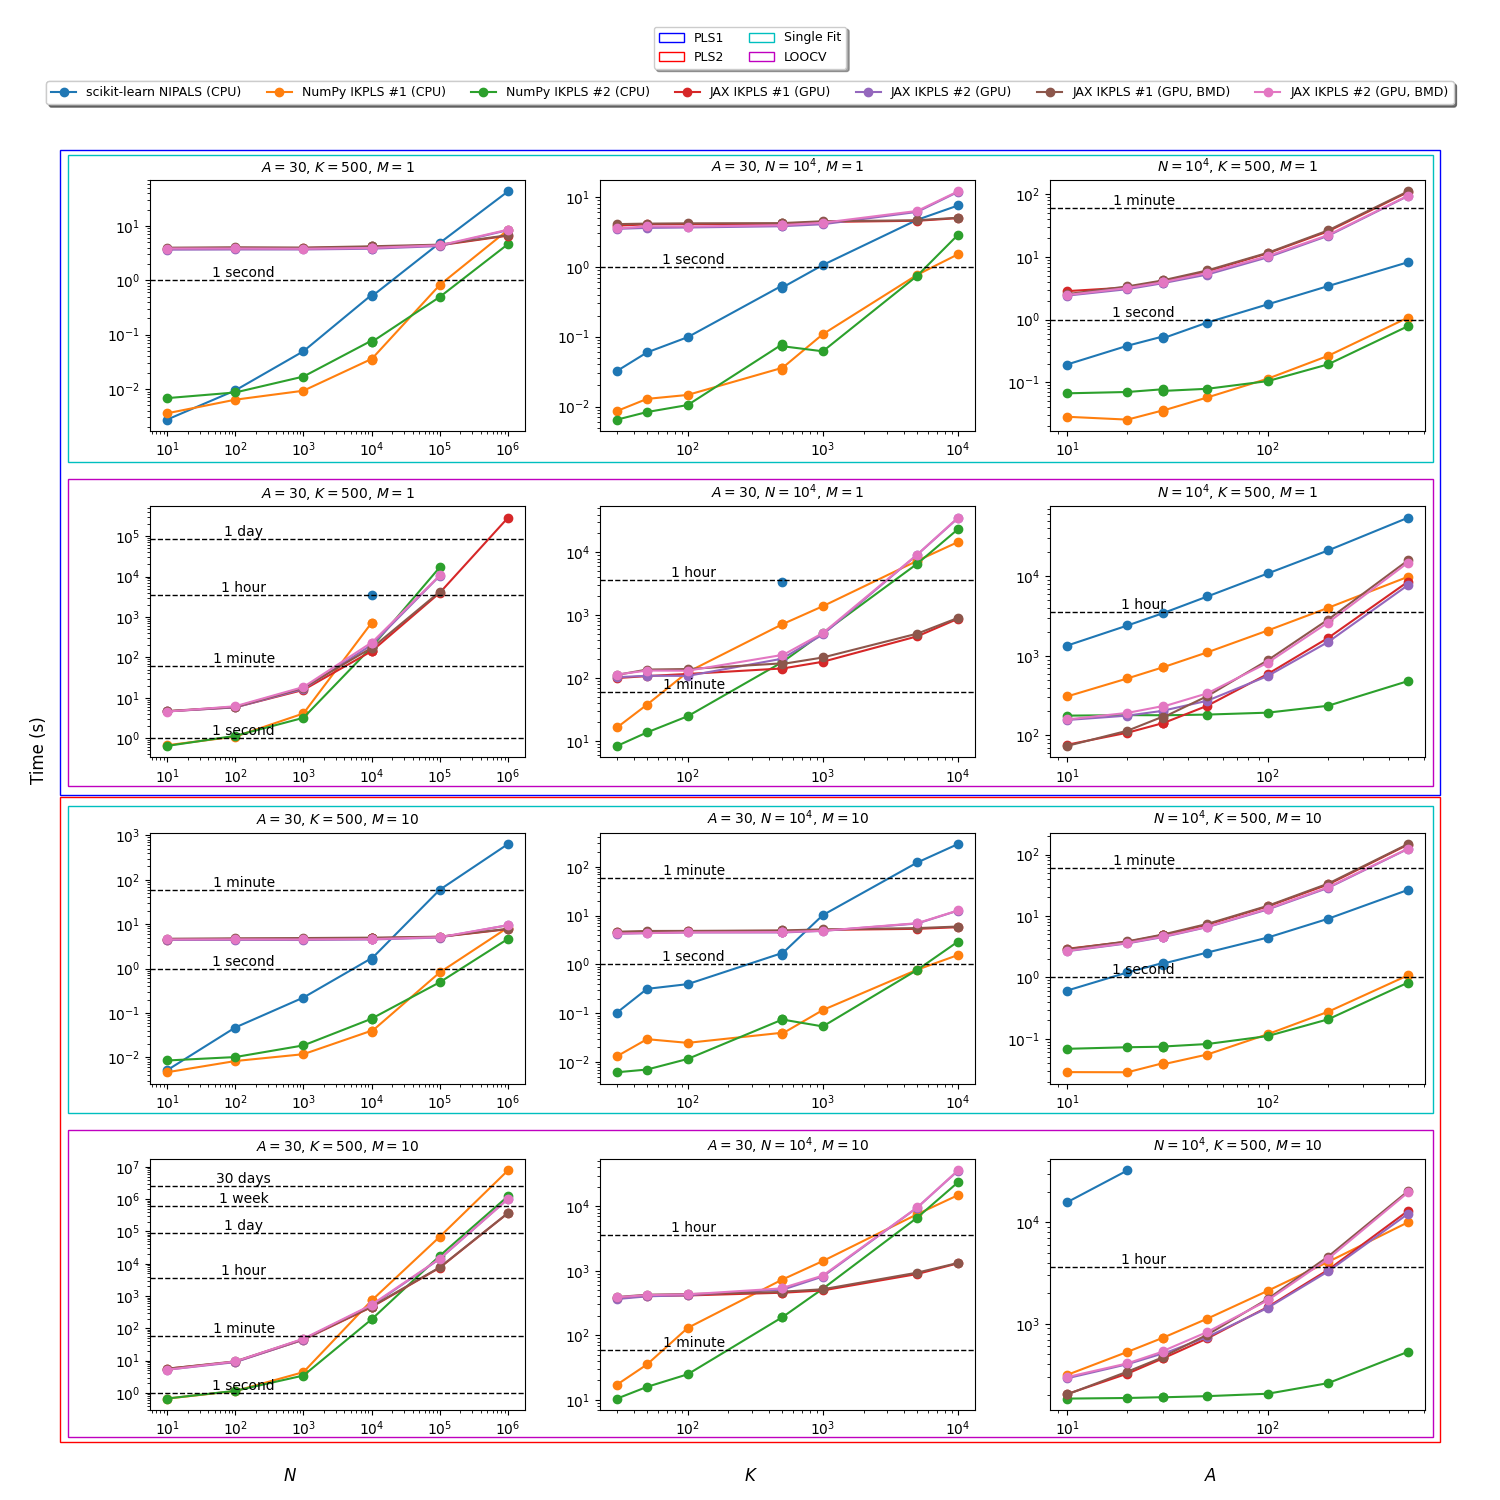
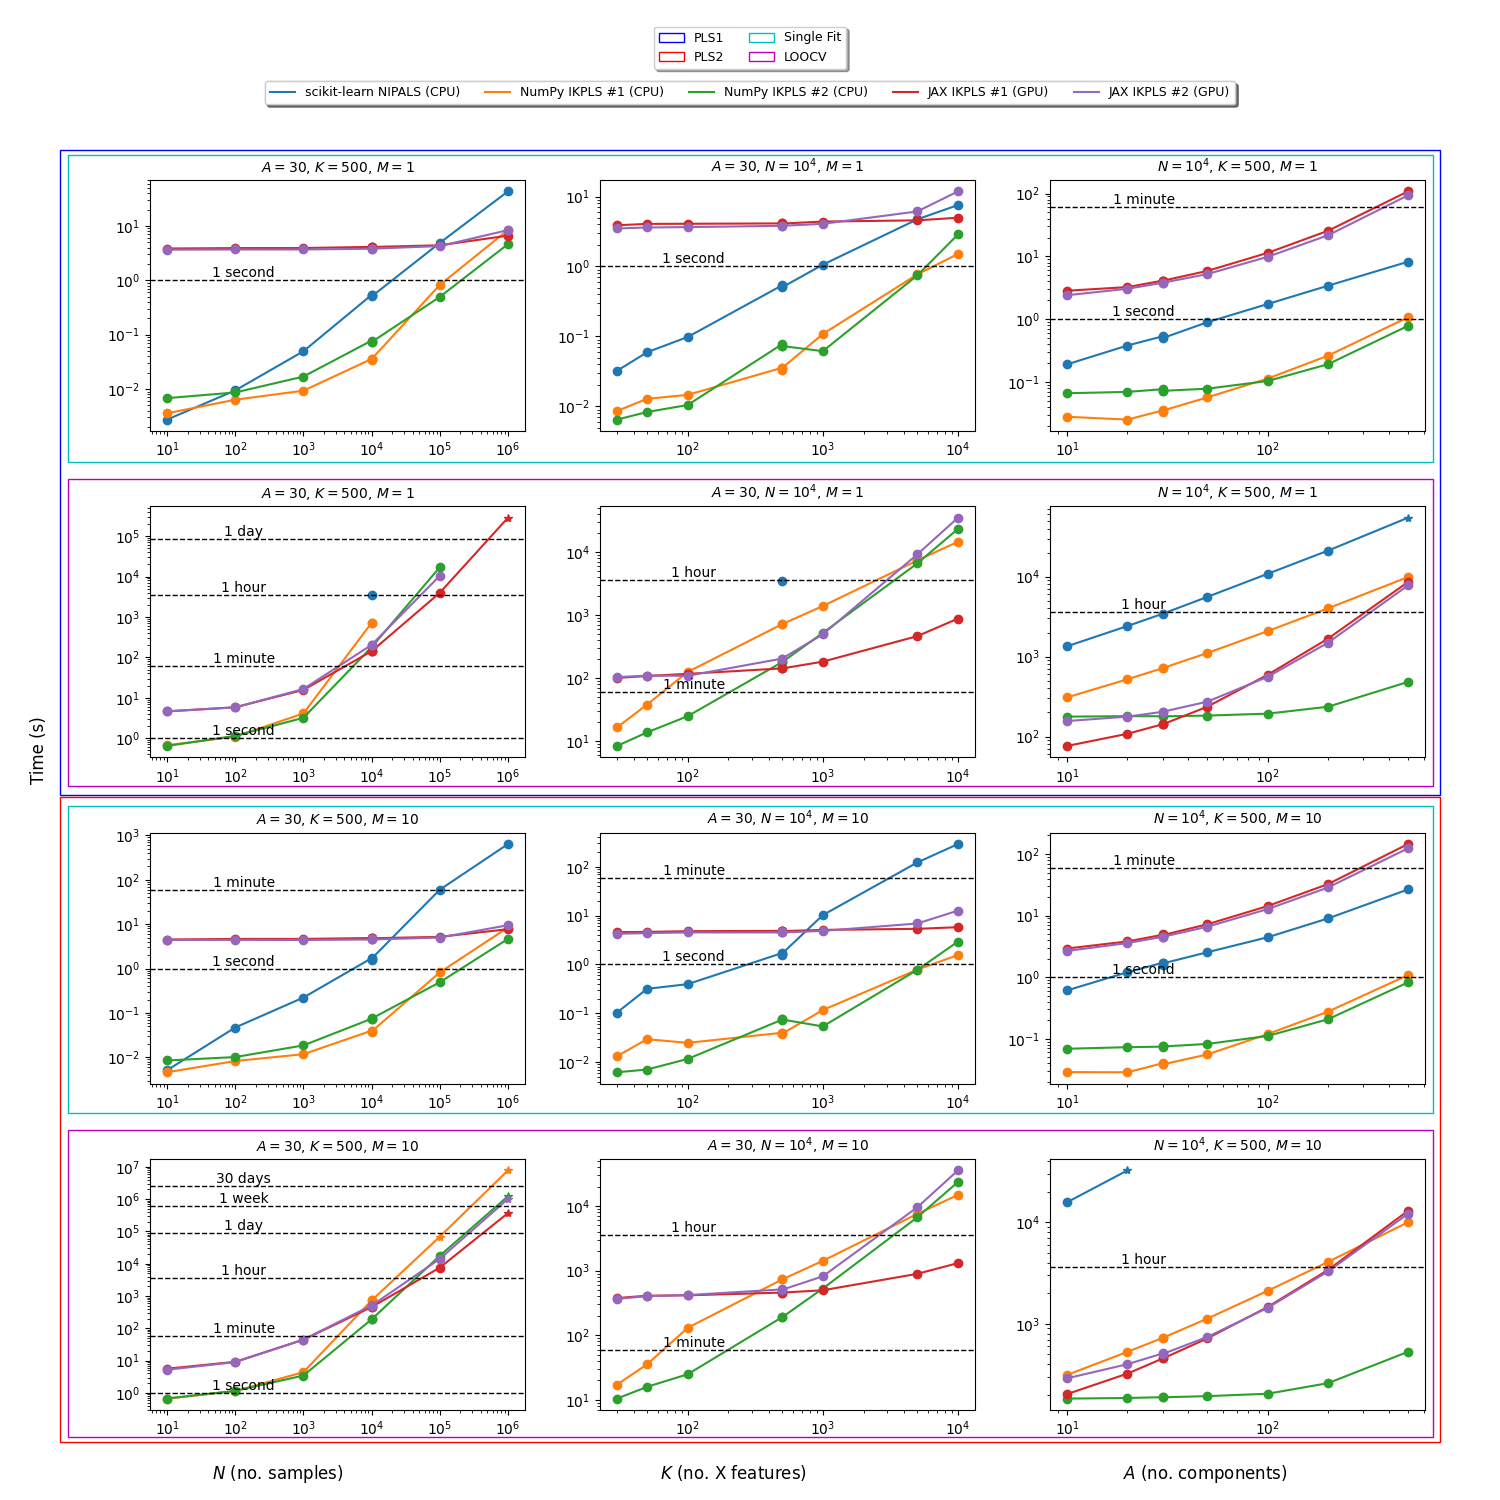
Added fail-safe check for numpy implementations if choosing an algorithm that is not 1 or 2. Also updated paper and plots.

diff --git a/plot_timings.py b/plot_timings.py
@@ -11,7 +11,7 @@ def remove_rows_where_all_values_except_time_are_same(df):
 
 
 def get_name_x_t_dict(df, x_name, constants_dict, single_fit_or_loocv):
-    model_names = ["sk", "np1", "np2", "jax1", "jax2", "diffjax1", "diffjax2"]
+    model_names = ["sk", "np1", "np2", "jax1", "jax2"]
     for name, value in constants_dict.items():
         df = df[df[name] == value]
     name_x_t_dict = {}
@@ -27,6 +27,7 @@ def get_name_x_t_dict(df, x_name, constants_dict, single_fit_or_loocv):
             )
         x = sub_df[x_name].values
         t = sub_df["time"].values
+        inferred = sub_df["inferred"].values
         if model_name == "sk":
             model_name = "scikit-learn NIPALS (CPU)"
         elif model_name == "np1":
@@ -37,18 +38,13 @@ def get_name_x_t_dict(df, x_name, constants_dict, single_fit_or_loocv):
             model_name = "JAX IKPLS #1 (GPU)"
         elif model_name == "jax2":
             model_name = "JAX IKPLS #2 (GPU)"
-        elif model_name == "diffjax1":
-            model_name = "JAX IKPLS #1 (GPU, BMD)"
-        elif model_name == "diffjax2":
-            model_name = "JAX IKPLS #2 (GPU, BMD)"
-        name_x_t_dict[model_name] = {"x": x, "t": t}
+        name_x_t_dict[model_name] = {"x": x, "t": t, "inferred": inferred}
     return name_x_t_dict
 
 
 def plot_timings(
-    ax, name_x_t_dict, xlabel, constants_dict, log_scale_x, log_scale_t, single_fit_or_loocv
+    ax, name_x_t_dict, xlabel, constants_dict,
 ):
-    # fig, ax = plt.subplots()
     fixed_points = [1, 60, 3600, 86400, 604800, 2592000, 31536000]
     fixed_points_labels = ["1 second", "1 minute", "1 hour", "1 day", "1 week", "30 days", "365 days"]
     min_t = np.inf
@@ -56,19 +52,17 @@ def plot_timings(
     for name, x_t_dict in name_x_t_dict.items():
         x = x_t_dict["x"]
         t = x_t_dict["t"]
+        inferred = x_t_dict["inferred"]
         sorted_indices = np.argsort(x)
         x = x[sorted_indices]
         t = t[sorted_indices]
-        if log_scale_t:
-            if log_scale_x:
-                ax.loglog(x, t, "o-", label=name)
+        curve = ax.loglog(x, t, "-", label=name)
+        color = curve[0].get_color()
+        for point_x, point_t, point_inferred in zip(x, t, inferred):
+            if np.isnan(point_inferred):
+                ax.loglog(point_x, point_t, "o", color=color)
             else:
-                ax.semilogy(x, t, "o-", label=name)
-        else:
-            if log_scale_x:
-                ax.semilogx(x, t, "o-", label=name)
-            else:
-                ax.plot(x, t, "o-", label=name)
+                ax.loglog(point_x, point_t, "*", color=color)
         if name not in legend_dict:
             legend_dict[name] = True
         try:
@@ -82,9 +76,7 @@ def plot_timings(
     for fp, fpl in zip(fixed_points, fixed_points_labels):
         if min_t <= fp <= max_t:
             ax.axhline(fp, color="k", linestyle="--", linewidth=1)
-            ax.text(0.25, fp, fpl, fontsize=10, ha="center", va="bottom", transform=trans) #bbox=dict(boxstyle="round", facecolor="white", alpha=0.5))
-    # ax.set_xlabel(xlabel)
-    # ax.set_ylabel("Time (s)")
+            ax.text(0.25, fp, fpl, fontsize=10, ha="center", va="bottom", transform=trans)
     if xlabel == "n_components":
         xlabel = "a"
     xlabel = xlabel.upper()
@@ -102,9 +94,6 @@ def plot_timings(
         title_str += f"${name}={value}$, "
     title_str = title_str[:-2]
     ax.set_title(title_str, fontsize=10)
-    # ax.legend()
-    # pls1_or_pls2 = "pls1" if constants_dict["m"] == 1 else "pls2"
-    # plt.savefig(f"timings/{single_fit_or_loocv}_{pls1_or_pls2}_{xlabel}.png")
 
 
 if __name__ == "__main__":
@@ -126,10 +115,7 @@ if __name__ == "__main__":
         name_x_t_dict_n_single_fit_pls1,
         "N",
         constants_dict_n_single_fit_pls1,
-        True,
-        True,
-        "single_fit",
-    )
+)
 
     constants_dict_k_single_fit_pls1 = {"n_components": 30, "n": 10000, "m": 1}
     name_x_t_dict_k_single_fit_pls1 = get_name_x_t_dict(
@@ -140,10 +126,7 @@ if __name__ == "__main__":
         name_x_t_dict_k_single_fit_pls1,
         "K",
         constants_dict_k_single_fit_pls1,
-        True,
-        True,
-        "single_fit",
-    )
+)
 
     constants_dict_nc_single_fit_pls1 = {"n": 10000, "k": 500, "m": 1}
     name_x_t_dict_nc_single_fit_pls1 = get_name_x_t_dict(
@@ -154,10 +137,7 @@ if __name__ == "__main__":
         name_x_t_dict_nc_single_fit_pls1,
         "A",
         constants_dict_nc_single_fit_pls1,
-        True,
-        True,
-        "single_fit",
-    )
+)
 
     constants_dict_n_single_fit_pls2 = {"n_components": 30, "k": 500, "m": 10}
     name_x_t_dict_n_single_fit_pls2 = get_name_x_t_dict(
@@ -168,10 +148,7 @@ if __name__ == "__main__":
         name_x_t_dict_n_single_fit_pls2,
         "N",
         constants_dict_n_single_fit_pls2,
-        True,
-        True,
-        "single_fit",
-    )
+)
 
     constants_dict_k_single_fit_pls2 = {"n_components": 30, "n": 10000, "m": 10}
     name_x_t_dict_k_single_fit_pls2 = get_name_x_t_dict(
@@ -182,10 +159,7 @@ if __name__ == "__main__":
         name_x_t_dict_k_single_fit_pls2,
         "K",
         constants_dict_k_single_fit_pls2,
-        True,
-        True,
-        "single_fit",
-    )
+)
 
     constants_dict_nc_single_fit_pls2 = {"n": 10000, "k": 500, "m": 10}
     name_x_t_dict_nc_single_fit_pls2 = get_name_x_t_dict(
@@ -196,10 +170,7 @@ if __name__ == "__main__":
         name_x_t_dict_nc_single_fit_pls2,
         "A",
         constants_dict_nc_single_fit_pls2,
-        True,
-        True,
-        "single_fit",
-    )
+)
 
     # LOOCV
     constants_dict_n_loocv_pls1 = {"n_components": 30, "k": 500, "m": 1}
@@ -211,10 +182,7 @@ if __name__ == "__main__":
         name_x_t_dict_n_loocv_pls1,
         "N",
         constants_dict_n_loocv_pls1,
-        True,
-        True,
-        "loocv",
-    )
+)
 
     constants_dict_k_loocv_pls1 = {"n_components": 30, "n": 10000, "m": 1}
     name_x_t_dict_k_loocv_pls1 = get_name_x_t_dict(
@@ -225,10 +193,7 @@ if __name__ == "__main__":
         name_x_t_dict_k_loocv_pls1,
         "K",
         constants_dict_k_loocv_pls1,
-        True,
-        True,
-        "loocv",
-    )
+)
 
     constants_dict_nc_loocv_pls1 = {"n": 10000, "k": 500, "m": 1}
     name_x_t_dict_nc_loocv_pls1 = get_name_x_t_dict(
@@ -239,10 +204,7 @@ if __name__ == "__main__":
         name_x_t_dict_nc_loocv_pls1,
         "A",
         constants_dict_nc_loocv_pls1,
-        True,
-        True,
-        "loocv",
-    )
+)
 
     constants_dict_n_loocv_pls2 = {"n_components": 30, "k": 500, "m": 10}
     name_x_t_dict_n_loocv_pls2 = get_name_x_t_dict(
@@ -253,10 +215,7 @@ if __name__ == "__main__":
         name_x_t_dict_n_loocv_pls2,
         "N",
         constants_dict_n_loocv_pls2,
-        True,
-        True,
-        "loocv",
-    )
+)
 
     constants_dict_k_loocv_pls2 = {"n_components": 30, "n": 10000, "m": 10}
     name_x_t_dict_k_loocv_pls2 = get_name_x_t_dict(
@@ -267,10 +226,7 @@ if __name__ == "__main__":
         name_x_t_dict_k_loocv_pls2,
         "K",
         constants_dict_k_loocv_pls2,
-        True,
-        True,
-        "loocv",
-    )
+)
 
     constants_dict_nc_loocv_pls2 = {"n": 10000, "k": 500, "m": 10}
     name_x_t_dict_nc_loocv_pls2 = get_name_x_t_dict(
@@ -281,15 +237,12 @@ if __name__ == "__main__":
         name_x_t_dict_nc_loocv_pls2,
         "A",
         constants_dict_nc_loocv_pls2,
-        True,
-        True,
-        "loocv",
-    )
+)
 
     
     fig.supylabel("Time (s)")
-    space = " "*85
-    fig.supxlabel("$N$" + space + "$K$" + space + "$A$")
+    space = " "*60
+    fig.supxlabel("$N$ (no. samples)" + space + "$K$ (no. X features)" + space + "$A$ (no. components)")
     # axs[0, 0].twiny().set_xlabel("Time vs. N")
     # axs[0, 1].twiny().set_xlabel("Time vs. K")
     # axs[0, 2].twiny().set_xlabel("Time vs. A")

diff --git a/ikpls/numpy_ikpls.py b/ikpls/numpy_ikpls.py
@@ -18,12 +18,21 @@ class PLS(BaseEstimator):
         Whether to use Improved Kernel PLS Algorithm #1 or #2. Defaults to 1.
     `dtype` : np.float_, default=numpy.float64
         The float datatype to use in computation of the PLS algorithm. Using a lower precision than float64 will yield significantly worse results when using an increasing number of components due to propagation of numerical errors.
+    
+    Raises:
+    ------
+    `ValueError`
+        If `algorithm` is not 1 or 2.
     """
 
     def __init__(self, algorithm: int = 1, dtype: np.float_ = np.float64) -> None:
         self.algorithm = algorithm
         self.dtype = dtype
         self.name = f"Improved Kernel PLS Algorithm #{algorithm}"
+        if self.algorithm not in [1, 2]:
+            raise ValueError(
+                f"Invalid algorithm: {self.algorithm}. Algorithm must be 1 or 2."
+            )
 
     def fit(self, X: npt.ArrayLike, Y: npt.ArrayLike, A: int) -> None:
         """

diff --git a/paper/paper.md b/paper/paper.md
@@ -5,6 +5,8 @@ tags:
   - PLS
   - latent variables
   - multivariate statistics
+  - cross-validation
+  - deep learning
 authors:
   - name: Ole-Christian Galbo Engstrøm
     orcid: 0000-0002-7906-4589
@@ -51,7 +53,7 @@ The implementations introduced in this work have been tested for equivalency aga
 
 ## NumPy
 
-A Python class implementing both IKPLS algorithms using NumPy is available in `ikpls` as `ikpls.numpy_ikpls.PLS`. Pass in `algorithm=1` or `algorithm=2` in the constructor to choose between algorithms. The class subclasses [`BaseEstimator`](https://scikit-learn.org/stable/modules/generated/sklearn.base.BaseEstimator.html) from scikit-learn. This allows the IKPLS classes to be used in combination with e.g. scikit-learn's [`cross_validate`](https://scikit-learn.org/stable/modules/generated/sklearn.model_selection.cross_validate.html) for a simple interface to parallel cross-validaiton with user-defined metric functions.
+A Python class implementing both IKPLS algorithms using NumPy is available in `ikpls` as `ikpls.numpy_ikpls.PLS`. Pass in `algorithm=1` or `algorithm=2` in the constructor to choose between algorithms. The class subclasses [`BaseEstimator`](https://scikit-learn.org/stable/modules/generated/sklearn.base.BaseEstimator.html) from scikit-learn, allowing the IKPLS class to be used in combination with e.g., scikit-learn's [`cross_validate`](https://scikit-learn.org/stable/modules/generated/sklearn.model_selection.cross_validate.html) for a simple interface to parallel cross-validation with user-defined metric functions.
 
 ## JAX
 
@@ -59,15 +61,15 @@ A Python class for each IKPLS algorithm using JAX is available in `ikpls` as `ik
 
 Using Autograd, JAX enables automatic differentiation of the IKPLS algorithms. JAX supports both forward and backward mode differentiation. The implementations in this work are naturally compatible with forward mode differentiation. This work also offers implementations that are compatible with backward mode differentiation. While mathematically equivalent to the other implementations, the backward mode differentiation compatible implementations incur a slight increase in computation time that increases with the number of components, $A$. Therefore, the backward mode differentiable algorithms should only be used if their specific functionality is desired. The differentiation, either backward or forward, allows users to combine PLS with deep learning techniques. For example, the input data may be preprocessed with a convolution filter. The differentiation allows computing the gradient of the convolution filter with respect to a loss function that measures the discrepancy between the PLS prediction and some ground truth value. [This](https://github.com/Sm00thix/IKPLS/blob/main/examples/gradient_jax.py) is an example of such a use case.
 
-Fitting a PLS model consists exclusively of matrix and vector operations. Therefore, the JAX implementations of IKPLS were explicitly made with the idea that massively parallel hardware, such as GPUs and TPUs, optimized for these kinds of operations could be used. To this end, custom implementations of cross-validation using JAX were made part of the IKPLS classes. In particular, this ensures that the input data only needs to be transferred to GPU/TPU memory once and will be partitioned for cross-validation segments on this device. Additionally, the implementations allow for evaluating user-defined metric functions. JAX ensures these functions are compiled and executed on-device, enabling maximum utilization of the massively parallel hardware.
+Fitting a PLS model consists exclusively of matrix and vector operations. Therefore, the JAX implementations of IKPLS were explicitly made with the idea that massively parallel hardware, such as GPUs and TPUs, optimized for these operations could be used. To this end, custom implementations of cross-validation using JAX were made part of the IKPLS classes. In particular, this ensures that the input data only needs to be transferred to GPU/TPU memory once and will be partitioned for cross-validation segments on this device. Additionally, the implementations allow for evaluating user-defined metric functions. JAX ensures these functions are compiled and executed on-device, enabling maximum utilization of the massively parallel hardware.
 
 # Benchmarks
 
-This section offers a comparison of the execution times of the `ikpls` implementations with scikit-learn's NIPALS implementation. The comparisons are made with varying shapes for $\mathbf{X}$ and $\mathbf{Y}$ and varying number of components, $A$. Additionally, the comparisons are made using just a single fit and using leave-one-out cross-validation. For the sake of estimating the execution time in a realistic scenario, the mean squared error and the number of components that minimizes this error are computed during cross-validation and returned hereafter for subsequent analysis by the user. The execution times reported for the JAX implementations include the time spent compiling the instructions and sending the input data to the GPU on which the cross validation is computed. While some sources on the internet claim that JAX is faster than NumPy on CPU we did not find that to be the case for our scenarios. Therefore, we exclusively test the JAX implementations on GPU. When cross-validating with the NumPy CPU implementations and scikit-learn's NIPALS, we use 32 parallel jobs corresponding to one for each thread on the CPU that we used.
+This section compares the execution times of the `ikpls` implementations with scikit-learn's NIPALS implementation. The comparisons are made with varying shapes for $\mathbf{X}$ and $\mathbf{Y}$ and variable number of components, $A$. Additionally, the comparisons are made using a single fit and leave-one-out cross-validation. To estimate the execution time in a realistic scenario, the mean squared error and the number of components that minimize this error are computed during cross-validation and returned hereafter for subsequent analysis by the user. The execution times reported for the JAX implementations include the time spent compiling the instructions and sending the input data to the GPU on which the cross-validation is computed. While some sources on the internet claim that JAX is faster than NumPy on CPU, we did not find that to be the case for our scenarios. Therefore, we exclusively test the JAX implementations on GPU. When cross-validating with the NumPy CPU implementations and scikit-learn's NIPALS, we use 32 parallel jobs corresponding to one for each available thread on the CPU that we used. We use only eight parallel jobs when performing cross-validating with 1 million samples due to memory constraints. In practice, however, we had 100% CPU utilization using eight jobs for such a large dataset due to the parallel nature of NumPy operations.
 
-The benchmarks use randomly generated data. The random seed is fixed such that all implementations are given the same random data. The default parameters for the benchmarks are $N=10,000$, $K=500$, and $A=30$. We benchmark using both a single target variable $M=1$ and multiple target variables with $M=10$. PLS with $M=1$ is commonly referred to as PLS1 and PLS2 with $M>1$
+The benchmarks use randomly generated data. The random seed is fixed to give all implementations the same random data. The default parameters for the benchmarks are $N=10,000$, $K=500$, and $A=30$. We benchmark using a single target variable $M=1$ and multiple target variables with $M=10$. PLS with $M=1$ is commonly referred to as PLS1 and PLS2 with $M>1$
 
-In an attempt to give guidelines for algorithm choice for the most common use-cases, we report the execution time of the implementations with varying values for each of the aforementioned parameters. Specifically, we define a list of values for each of the parameters to take while the rest of the parameters mantain their default settings. We use 
+In an attempt to give guidelines for algorithm choice for the most common use cases, we report the execution time of the implementations with varying values for each of the parameters above. Specifically, we define a list of values for each parameter to take while the rest of the parameters maintain their default settings. We use 
 
 $N \in [10^1, 10^2, 10^3, 10^4, 10^5, 10^6]$, $K \in [30, 50, 10^2, 5\cdot 10^2, 10^3, 5\cdot 10^3, 10^4]$, $A \in [10, 20, 30, 50, 100, 200, 500]$, and $M \in [1, 10]$.
 
@@ -83,7 +85,7 @@ All the experiments are executed on the hardware shown in \autoref{tab:hardware}
 | GPU         | NVIDIA GeForce RTX3090 Ti |
 | RAM         | 4x32GB, DDR4, 3.2GHz, C16 |
 
-![Timings.\label{fig:timings}](timings.png)
+![Timings. A circle means that the experiment was run until the end and the time reported is exact. A star means that the experiment was run until the time per iterations had stabilized and used to forecast the time usage if the experiment was run to completion.\label{fig:timings}](timings.png)
 
 # Algorithmic improvement for cross-validation
 

diff --git a/README.md b/README.md
@@ -76,4 +76,4 @@ In [examples](https://github.com/Sm00thix/IKPLS/tree/main/examples) you will fin
 * [Example](https://github.com/Sm00thix/IKPLS/tree/main/examples/fit_predict_jax.py) of fitting and predicting with the JAX implementations.
 * [Example](https://github.com/Sm00thix/IKPLS/tree/main/examples/cross_val_numpy.py) of cross validating with the NumPy implementations.
 * [Example](https://github.com/Sm00thix/IKPLS/tree/main/examples/cross_val_jax.py) of cross validating with the JAX implementations.
-* [Example](https://github.com/Sm00thix/IKPLS/tree/main/examples/gradient_jax.py) of computing the gradient of a preprocessing filter with respect to the RMSE between the target value and the value predicted by PLS after fitting.
+* [Example](https://github.com/Sm00thix/IKPLS/tree/main/examples/gradient_jax.py) of computing the gradient of a preprocessing convolution filter with respect to the RMSE between the target value and the value predicted by PLS after fitting.
